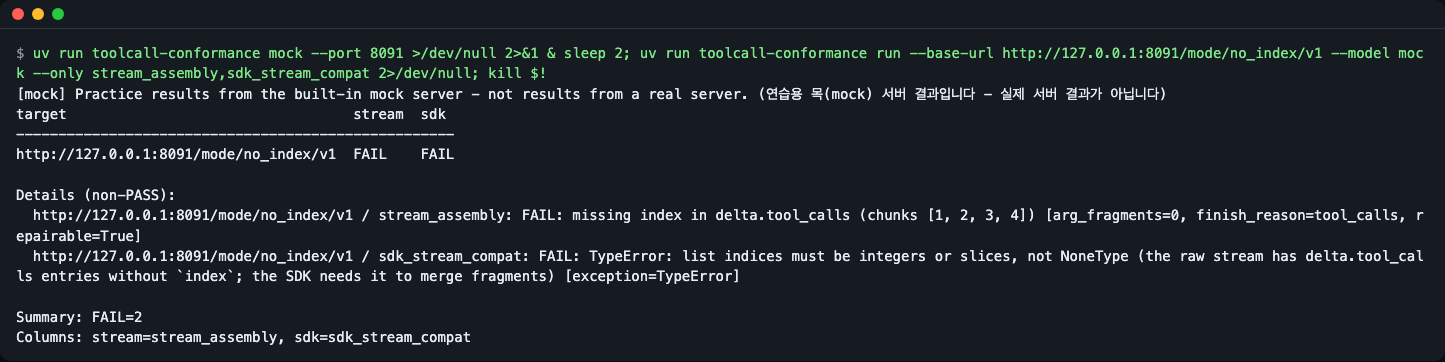
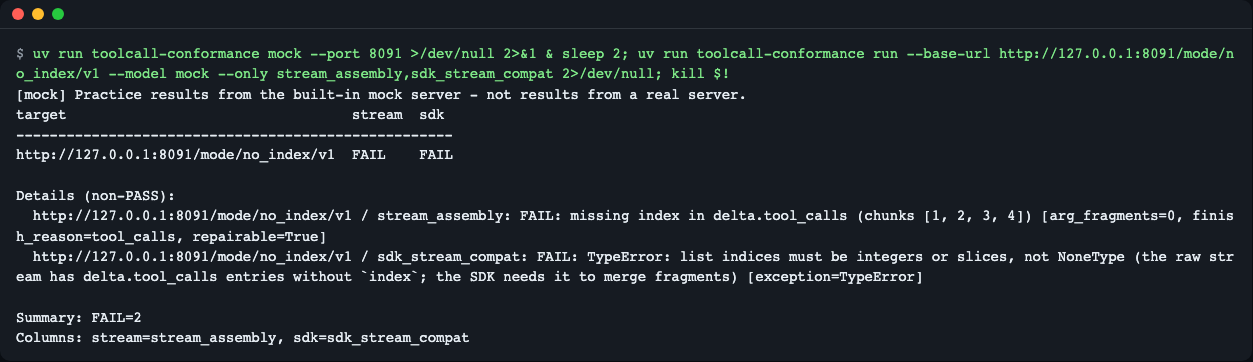
docs(readme): document screen language and add Korean screenshots
Describe language selection in both READMEs and use per-language
screenshots in the Korean README.

diff --git a/README.ko.md b/README.ko.md
@@ -4,7 +4,7 @@
 
 에이전트가 도구를 갑자기 안 쓰거나 `<tool_call>` 글자를 그냥 뱉을 때, 원인이 서버 파서인지·모델 템플릿인지·클라이언트 SDK인지 손으로 SSE를 읽지 않고 명령 하나로 가려 줍니다.
 
-![9가지 모드 x 11개 검사 결과 표](docs/images/01-demo-matrix.png)
+![9가지 모드 x 11개 검사 결과 표](docs/images/01-demo-matrix.ko.png)
 *`demo` 결과: 연습용 목(mock) 서버의 9가지 동작 모드(세로)를 11개 검사(가로)로 훑은 표. 모드마다 어떤 검사가 깨지는지 한눈에 보입니다.*
 
 ## 이런 분께
@@ -27,7 +27,7 @@ uvx --from git+https://github.com/LeeGyeongPil/toolcall-conformance toolcall-con
 uv tool install git+https://github.com/LeeGyeongPil/toolcall-conformance
 toolcall-conformance --version
 ```
-PyPI 게시 후에는 `uvx toolcall-conformance demo` 로도 실행됩니다. 이 글을 쓴 시점에는 레포 소스를 로컬 경로로 지정해 `uvx --from <경로> toolcall-conformance --version` 이 `toolcall-conformance 0.2.0` 을 출력하는 것까지 확인했습니다. 별도의 시스템 패키지는 필요 없습니다(표준 라이브러리 + 공식 `openai` SDK 하나).
+PyPI 게시 후에는 `uvx toolcall-conformance demo` 로도 실행됩니다. 이 글을 쓴 시점에는 레포 소스를 로컬 경로로 지정해 `uvx --from <경로> toolcall-conformance --version` 이 `toolcall-conformance 0.3.0` 을 출력하는 것까지 확인했습니다. 별도의 시스템 패키지는 필요 없습니다(표준 라이브러리 + 공식 `openai` SDK 하나).
 
 레포를 받아 쓰려면:
 ```bash
@@ -39,10 +39,10 @@ uv run toolcall-conformance demo
 ```bash
 uv run toolcall-conformance demo
 ```
-출력(몇 초 걸립니다. 실제 실행 결과 중 표 부분 발췌이며, 표 아래에 비PASS 상세 목록과 `Summary` 줄이 이어서 출력됩니다):
+한국어 로케일이거나 `--lang ko` 일 때의 출력입니다(그 외에는 영어 화면). 몇 초 걸립니다. 실제 실행 결과 중 표 부분 발췌이며, 표 아래에 비PASS 상세 목록과 `요약` 줄이 이어서 출력됩니다):
 ```
-[mock] Practice results from the built-in mock server - not results from a real server. (연습용 목(mock) 서버 결과입니다 - 실제 서버 결과가 아닙니다)
-target               basic  leak  args  stream  done  sdk   none  req   named  para  trip
+[mock] 내장 목(mock) 서버의 연습용 결과입니다. 실제 서버의 결과가 아닙니다.
+대상                 basic  leak  args  stream  done  sdk   none  req   named  para  trip
 -----------------------------------------------------------------------------------------
 good                 PASS   PASS  PASS  PASS    PASS  PASS  PASS  PASS  PASS   PASS  PASS
 no_index             PASS   PASS  PASS  FAIL    PASS  FAIL  PASS  PASS  PASS   PASS  PASS
@@ -74,8 +74,22 @@ ollama_like          PASS   PASS  PASS  PASS    PASS  PASS  FAIL  FAIL  FAIL   P
 | `--api-key-env 이름` | API 키가 든 **환경변수 이름** | `--api-key-env TOOLCALL_API_KEY` |
 | `mock [--port N]` | 목 서버를 띄워 둠(Ctrl-C 로 종료) | `mock --port 8089` |
 | `list` | 검사 항목과 목 모드 설명 | `toolcall-conformance list` |
+| `--lang en\|ko` | 화면 언어("출력 언어" 참고) | `--lang ko demo` |
 
-종료 코드: `0` 모든 검사 통과(FAIL·ERROR 없음), `1` FAIL 또는 ERROR 있음, `2` 사용법 오류·서버 연결 거부·주소 해석(DNS) 실패(접속 후 끊김·타임아웃은 `ERROR` 로 기록되어 종료 코드 1). `--targets` 에서는 연결할 수 없거나 `api_key_env` 환경변수가 없는 대상을 건너뜁니다. 그 행은 모든 열이 `ERR` 이고 이유는 상세 목록에 나오며, stderr 에 `skipping target <이름>: ...` 이 출력되고, 나머지 대상은 계속 검사하며 종료 코드는 1 입니다. 모든 대상을 건너뛴 경우에만 종료 코드 2 입니다. `--resume` 에서는 `--out` 에 이미 기록된 결과(PASS 등)가 건너뛴 대상에서도 유지되고, 기록이 없는 검사만 `ERROR` 가 됩니다. 단일 `--base-url` 실행은 그대로입니다(연결 거부는 종료 코드 2). (`demo` 는 `good` 모드만 판정에 씁니다.)
+종료 코드: `0` 모든 검사 통과(FAIL·ERROR 없음), `1` FAIL 또는 ERROR 있음, `2` 사용법 오류·서버 연결 거부·주소 해석(DNS) 실패(접속 후 끊김·타임아웃은 `ERROR` 로 기록되어 종료 코드 1). `--targets` 에서는 연결할 수 없거나 `api_key_env` 환경변수가 없는 대상을 건너뜁니다. 그 행은 모든 열이 `ERR` 이고 이유는 상세 목록에 나오며, stderr 에 `대상 건너뜀 <이름>: ...` 이 출력되고(영어 화면이면 `skipping target <name>: ...`), 나머지 대상은 계속 검사하며 종료 코드는 1 입니다. 모든 대상을 건너뛴 경우에만 종료 코드 2 입니다. `--resume` 에서는 `--out` 에 이미 기록된 결과(PASS 등)가 건너뛴 대상에서도 유지되고, 기록이 없는 검사만 `ERROR` 가 됩니다. 단일 `--base-url` 실행은 그대로입니다(연결 거부는 종료 코드 2). (`demo` 는 `good` 모드만 판정에 씁니다.)
+
+### 출력 언어
+도움말·오류·진행 줄·텍스트/Markdown 보고서 라벨이 영어 또는 한국어로 나옵니다. 언어는 다음 순서로 정해집니다.
+1. `--lang en|ko` (서브커맨드 앞뒤 어디든)
+2. 환경변수 `TOOLCALL_CONFORMANCE_LANG` (`en` 또는 `ko`)
+3. `LC_ALL`, `LC_MESSAGES`, `LANG` 순서로 확인: `ko` 로 시작하는 값(예: `ko_KR.UTF-8`)이면 한국어, 그 외는 영어
+```bash
+uv run toolcall-conformance --lang ko demo
+TOOLCALL_CONFORMANCE_LANG=ko uv run toolcall-conformance list
+```
+같은 `demo` 표의 영어 화면은 [README.md](README.md)에 있습니다(배너·`대상` 머리글·하단 줄이 한국어로 나오는 것이 이 문서의 화면입니다).
+
+언어와 상관없이 그대로인 것: `--format json` 출력, JSONL 근거 파일, 검사별 `reason` 문구(근거 데이터라 항상 영어), 검사 ID, `PASS/WARN/FAIL/SKIP/ERR` 등급, 종료 코드. 한국어 로케일 PC 에서는 텍스트 출력이 기본으로 한국어입니다. 출력 글자를 매칭하는 스크립트 등에서 영어를 유지하려면 `--lang en` 을 붙이세요.
 
 ### 시나리오 1: 내 Ollama 검사
 ```bash
@@ -90,7 +104,7 @@ uv run toolcall-conformance mock --port 8089 &
 uv run toolcall-conformance run --base-url http://127.0.0.1:8089/mode/no_index/v1 \
   --model mock --only stream_assembly,sdk_stream_compat
 ```
-![원시 조립은 보정 가능, SDK는 예외](docs/images/02-sdk-gap.png)
+![원시 조립은 보정 가능, SDK는 예외](docs/images/02-sdk-gap.ko.png)
 *같은 스트림이 두 방식으로 판정됩니다. 직접 조립한 쪽은 `repairable=True`(index를 0부터 채우면 읽힘), 공식 `openai` SDK 쪽은 `TypeError` 로 실패.*
 
 실제 출력 발췌(대상 이름은 `--base-url` 전체 주소로 찍힙니다):
@@ -114,7 +128,7 @@ toolcall-conformance run --base-url http://127.0.0.1:8089/mode/no_index/v1 --mod
 ```bash
 toolcall-conformance run --targets examples/targets.toml --format md > report.md
 ```
-![직접 연결과 프록시 경유 비교](docs/images/04-targets-matrix.png)
+![직접 연결과 프록시 경유 비교](docs/images/04-targets-matrix.ko.png)
 *`--targets` 로 대상 여러 곳을 같은 검사로 돌려 대상 x 검사 표를 만듭니다. 위 그림은 연습용 목 서버 두 모드를 "직접"과 "프록시 경유"로 이름 붙인 예시입니다.*
 
 **먼저 `examples/targets.toml` 을 고치세요.** 이 파일은 서버 4곳(Ollama·llama-server·vLLM·LiteLLM)의 예시이고, 실행 중이 아니거나 키 환경변수가 없는 서버는 `ERR` 행으로 표시되고 나머지는 계속 검사합니다. 실행하지 않는 서버의 `[[target]]` 블록을 지우는 것은 선택입니다(CI 를 초록으로 유지하려면 지우세요). 키가 필요 없으면 `api_key_env` 줄을 지우거나 `TOOLCALL_API_KEY` 를 설정하세요. 직접은 PASS, 경유는 FAIL 이면 프록시 탓입니다. `examples/targets.toml` 에 Ollama·llama-server·vLLM·LiteLLM 예시가 있습니다(필요한 서버 옵션은 `notes` 에). CI 에서는 `run ... --only stream_assembly,roundtrip` 처럼 줄여 돌리고 종료 코드 1 을 실패로 취급하면 됩니다. 중간에 끊겼다면 같은 `--out` 으로 `--resume`.
@@ -209,11 +223,11 @@ am-i-openai-compatible: https://github.com/heiervang-technologies/am-i-openai-co
 ## 자주 겪는 문제
 | 증상 | 원인 | 해결 |
 |---|---|---|
-| `error: cannot connect to ... Connection refused` 와 종료 코드 2 | 서버가 안 떠 있거나 주소·포트가 틀림 | 서버 실행 확인, `--base-url` 이 `/v1` 까지 포함하는지 확인 |
-| stderr 의 `skipping target <이름>: ...`, `--targets` 표의 `ERR` 행 | 그 대상이 실행 중이 아니거나 `api_key_env` 환경변수가 없음(나머지는 검사됨, 종료 코드 1) | 서버를 켜거나 변수를 export 한 뒤 같은 `--out` 으로 `--resume`, 또는 블록 삭제 |
+| `error: cannot connect to ... Connection refused`(한국어 화면은 `오류: ...`)와 종료 코드 2 | 서버가 안 떠 있거나 주소·포트가 틀림 | 서버 실행 확인, `--base-url` 이 `/v1` 까지 포함하는지 확인 |
+| stderr 의 `대상 건너뜀 <이름>: ...`(영어 화면은 `skipping target ...`), `--targets` 표의 `ERR` 행 | 그 대상이 실행 중이 아니거나 `api_key_env` 환경변수가 없음(나머지는 검사됨, 종료 코드 1) | 서버를 켜거나 변수를 export 한 뒤 같은 `--out` 으로 `--resume`, 또는 블록 삭제 |
 | 모든 검사가 느리거나 `ERROR`(타임아웃) | 첫 모델 로드 지연, 공유 GPU | `--timeout 300`, `--only` 로 줄이기, 중간에 끊겼다면 `--resume`(같은 `--out` 이면 `ERROR` 만 다시 실행) |
-| `error: --only has no check ids` 와 종료 코드 2 | `--only` 값이 비었음(CI 변수 치환이 비었거나 쉼표만 남음) | 변수 값 확인. 전체를 돌리려면 `--only` 를 빼기 |
-| `error: unknown check id(s): ...` 와 종료 코드 2 | `--only` 에 없는 검사 이름이 섞임(오타. 유효한 이름과 함께여도 마찬가지) | `toolcall-conformance list` 로 이름 확인 |
+| `error: --only has no check ids`(한국어 화면은 `오류: ...`)와 종료 코드 2 | `--only` 값이 비었음(CI 변수 치환이 비었거나 쉼표만 남음) | 변수 값 확인. 전체를 돌리려면 `--only` 를 빼기 |
+| `error: unknown check id(s): ...`(한국어 화면은 `오류: ...`)와 종료 코드 2 | `--only` 에 없는 검사 이름이 섞임(오타. 유효한 이름과 함께여도 마찬가지) | `toolcall-conformance list` 로 이름 확인 |
 | `leak` 만 FAIL | 서버 파서 설정 누락(llama-server `--jinja`, vLLM 도구 파서 옵션) | 서버 옵션 확인 후 재실행 |
 | `none` 이 FAIL | 서버가 `tool_choice` 를 구현하지 않음(Ollama 문서에도 미지원으로 표기) | 서버 한계로 받아들이거나 서버 교체 |
 | `para` 가 WARN | 모델·서버 기본값이 한 번에 하나씩 호출 | 정상 범위. 병렬이 꼭 필요하면 모델 교체 |
@@ -224,7 +238,7 @@ am-i-openai-compatible: https://github.com/heiervang-technologies/am-i-openai-co
 ## 개발·기여
 ```bash
 git clone https://github.com/LeeGyeongPil/toolcall-conformance && cd toolcall-conformance
-uv run pytest -q    # 84 passed, 키·네트워크 불필요
+uv run pytest -q    # 107 passed, 키·네트워크 불필요
 ```
 버그·제안은 이슈로 남겨 주세요. 변경 기록은 [CHANGELOG.md](CHANGELOG.md).
 

diff --git a/README.md b/README.md
@@ -27,7 +27,7 @@ uvx --from git+https://github.com/LeeGyeongPil/toolcall-conformance toolcall-con
 uv tool install git+https://github.com/LeeGyeongPil/toolcall-conformance
 toolcall-conformance --version
 ```
-After the PyPI release, `uvx toolcall-conformance demo` will also work. As of this writing, we confirmed that pointing at the repo source by local path, `uvx --from <path> toolcall-conformance --version` prints `toolcall-conformance 0.2.0`. No separate system packages are needed (the standard library plus the official `openai` SDK, just one).
+After the PyPI release, `uvx toolcall-conformance demo` will also work. As of this writing, we confirmed that pointing at the repo source by local path, `uvx --from <path> toolcall-conformance --version` prints `toolcall-conformance 0.3.0`. No separate system packages are needed (the standard library plus the official `openai` SDK, just one).
 
 To use it from a clone of the repo:
 ```bash
@@ -41,7 +41,7 @@ uv run toolcall-conformance demo
 ```
 Output (it takes a few seconds. This is an excerpt of the table part of a real run; below the table, a detailed list of non-PASS results and a `Summary` line follow):
 ```
-[mock] Practice results from the built-in mock server - not results from a real server. (연습용 목(mock) 서버 결과입니다 - 실제 서버 결과가 아닙니다)
+[mock] Practice results from the built-in mock server - not results from a real server.
 target               basic  leak  args  stream  done  sdk   none  req   named  para  trip
 -----------------------------------------------------------------------------------------
 good                 PASS   PASS  PASS  PASS    PASS  PASS  PASS  PASS  PASS   PASS  PASS
@@ -74,8 +74,22 @@ How to read it:
 | `--api-key-env name` | The **name of the environment variable** holding the API key | `--api-key-env TOOLCALL_API_KEY` |
 | `mock [--port N]` | Keep a mock server running (end with Ctrl-C) | `mock --port 8089` |
 | `list` | Describes the checks and mock modes | `toolcall-conformance list` |
+| `--lang en\|ko` | Screen language (see "Output language") | `--lang ko demo` |
 
 Exit codes: `0` all checks pass (no FAIL or ERROR), `1` there is a FAIL or ERROR, `2` usage error, server connection refused, or address resolution (DNS) failure (a drop after connecting or a timeout is recorded as `ERROR`, giving exit code 1). With `--targets`, a target that cannot be reached or whose `api_key_env` variable is unset is skipped: its row shows `ERR` in every column, the reason is listed under the details, `skipping target <name>: ...` goes to stderr, the other targets are still checked and the exit code is 1. Exit code 2 only when every target was skipped. With `--resume`, results already recorded in `--out` (PASS and so on) are kept even for a skipped target; only the checks with no record become `ERROR`. A single `--base-url` run is unchanged (refused connection is exit code 2). (`demo` uses only the `good` mode for its verdict.)
+
+### Output language
+Help, errors, progress lines and the text/Markdown report labels come in English or Korean. The language is picked in this order:
+1. `--lang en|ko` (before or after the subcommand)
+2. the `TOOLCALL_CONFORMANCE_LANG` environment variable (`en` or `ko`)
+3. `LC_ALL`, `LC_MESSAGES`, then `LANG`: a value starting with `ko` (for example `ko_KR.UTF-8`) selects Korean, anything else English.
+```bash
+uv run toolcall-conformance --lang ko demo
+TOOLCALL_CONFORMANCE_LANG=ko uv run toolcall-conformance list
+```
+The Korean screen of the same `demo` table is in [README.ko.md](README.ko.md) (the banner, the `대상` (target) header and the footer lines are Korean).
+
+What does not change with the language: `--format json` output, the JSONL evidence file, the per-check `reason` text (evidence data, always English), check ids, the `PASS/WARN/FAIL/SKIP/ERR` grades and exit codes. Note that on a machine with a Korean locale the text output is Korean by default; add `--lang en` to keep English (for example in scripts that match the output text).
 
 ### Scenario 1: Check your Ollama
 ```bash
@@ -224,7 +238,7 @@ am-i-openai-compatible: https://github.com/heiervang-technologies/am-i-openai-co
 ## Development and contributing
 ```bash
 git clone https://github.com/LeeGyeongPil/toolcall-conformance && cd toolcall-conformance
-uv run pytest -q    # 84 passed, no key or network needed
+uv run pytest -q    # 107 passed, no key or network needed
 ```
 Please leave bugs and suggestions as issues. The change log is [CHANGELOG.md](CHANGELOG.md).
 
